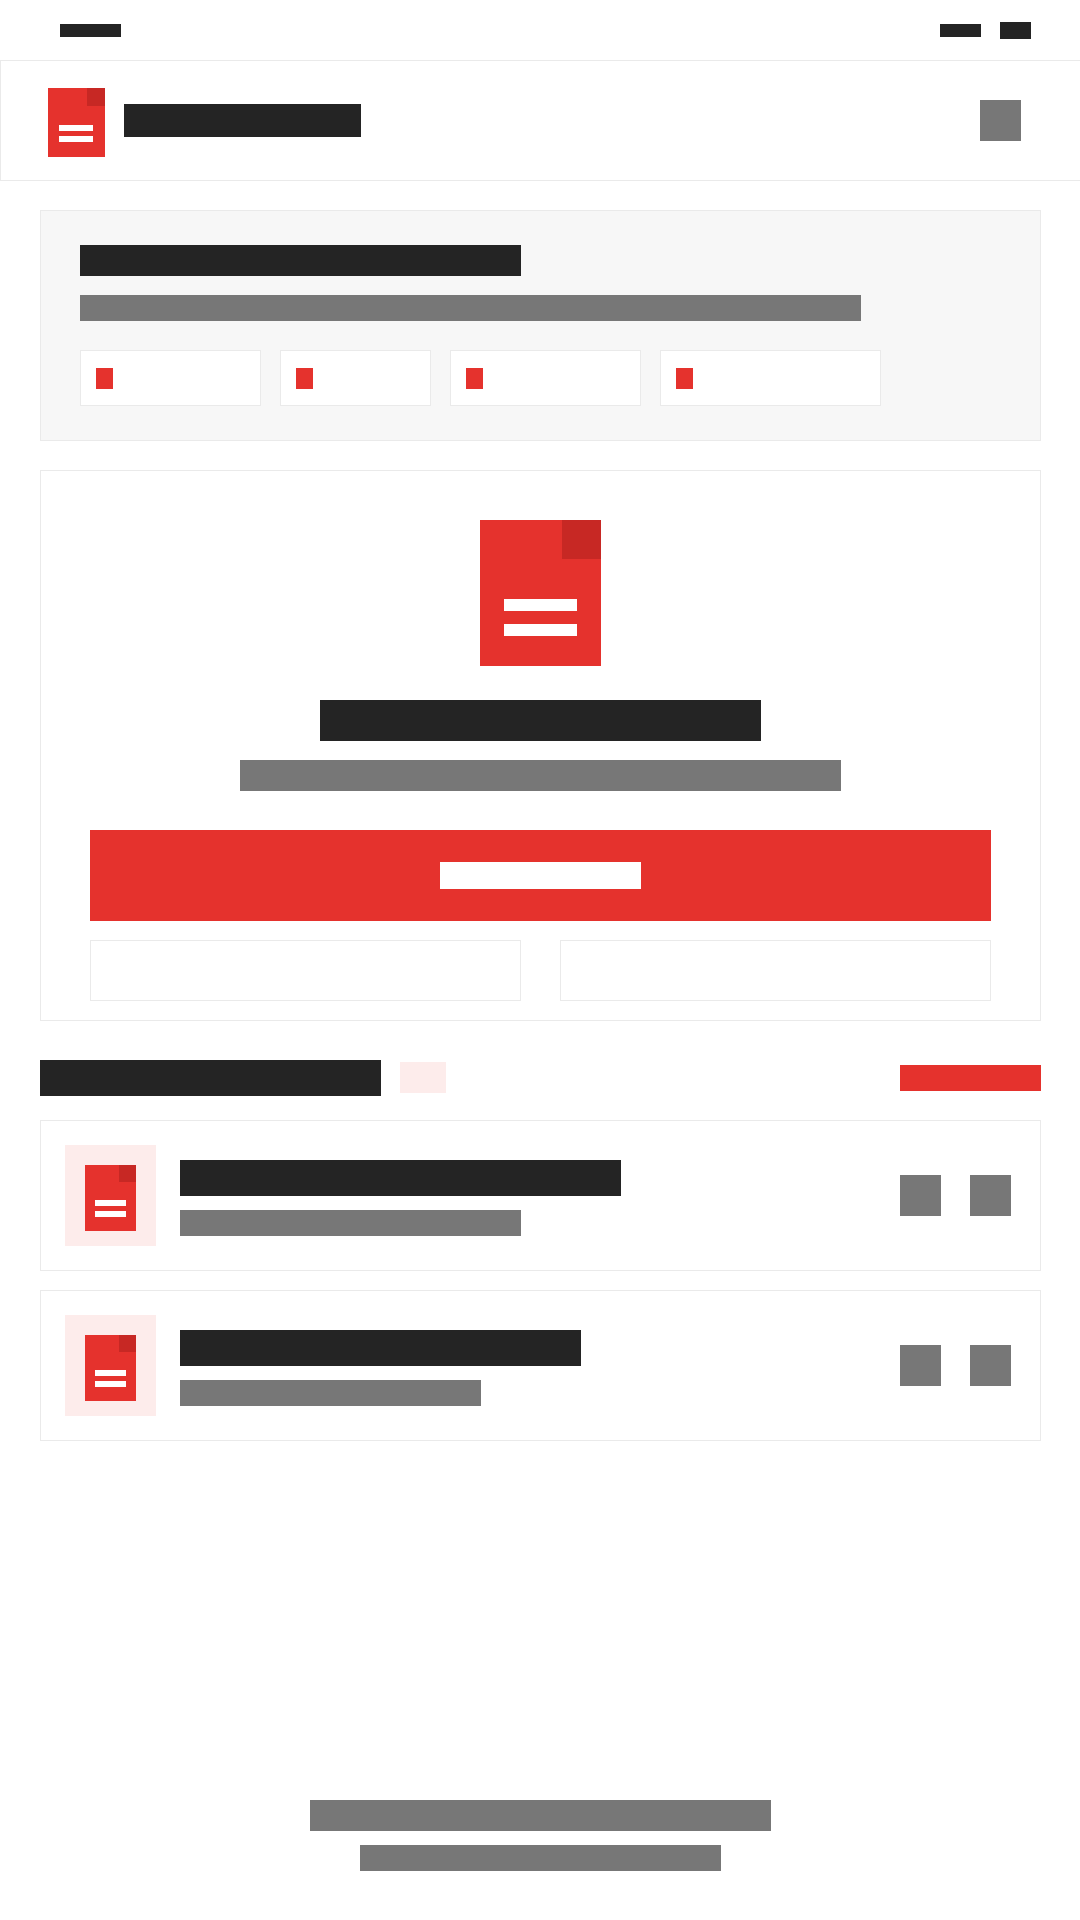
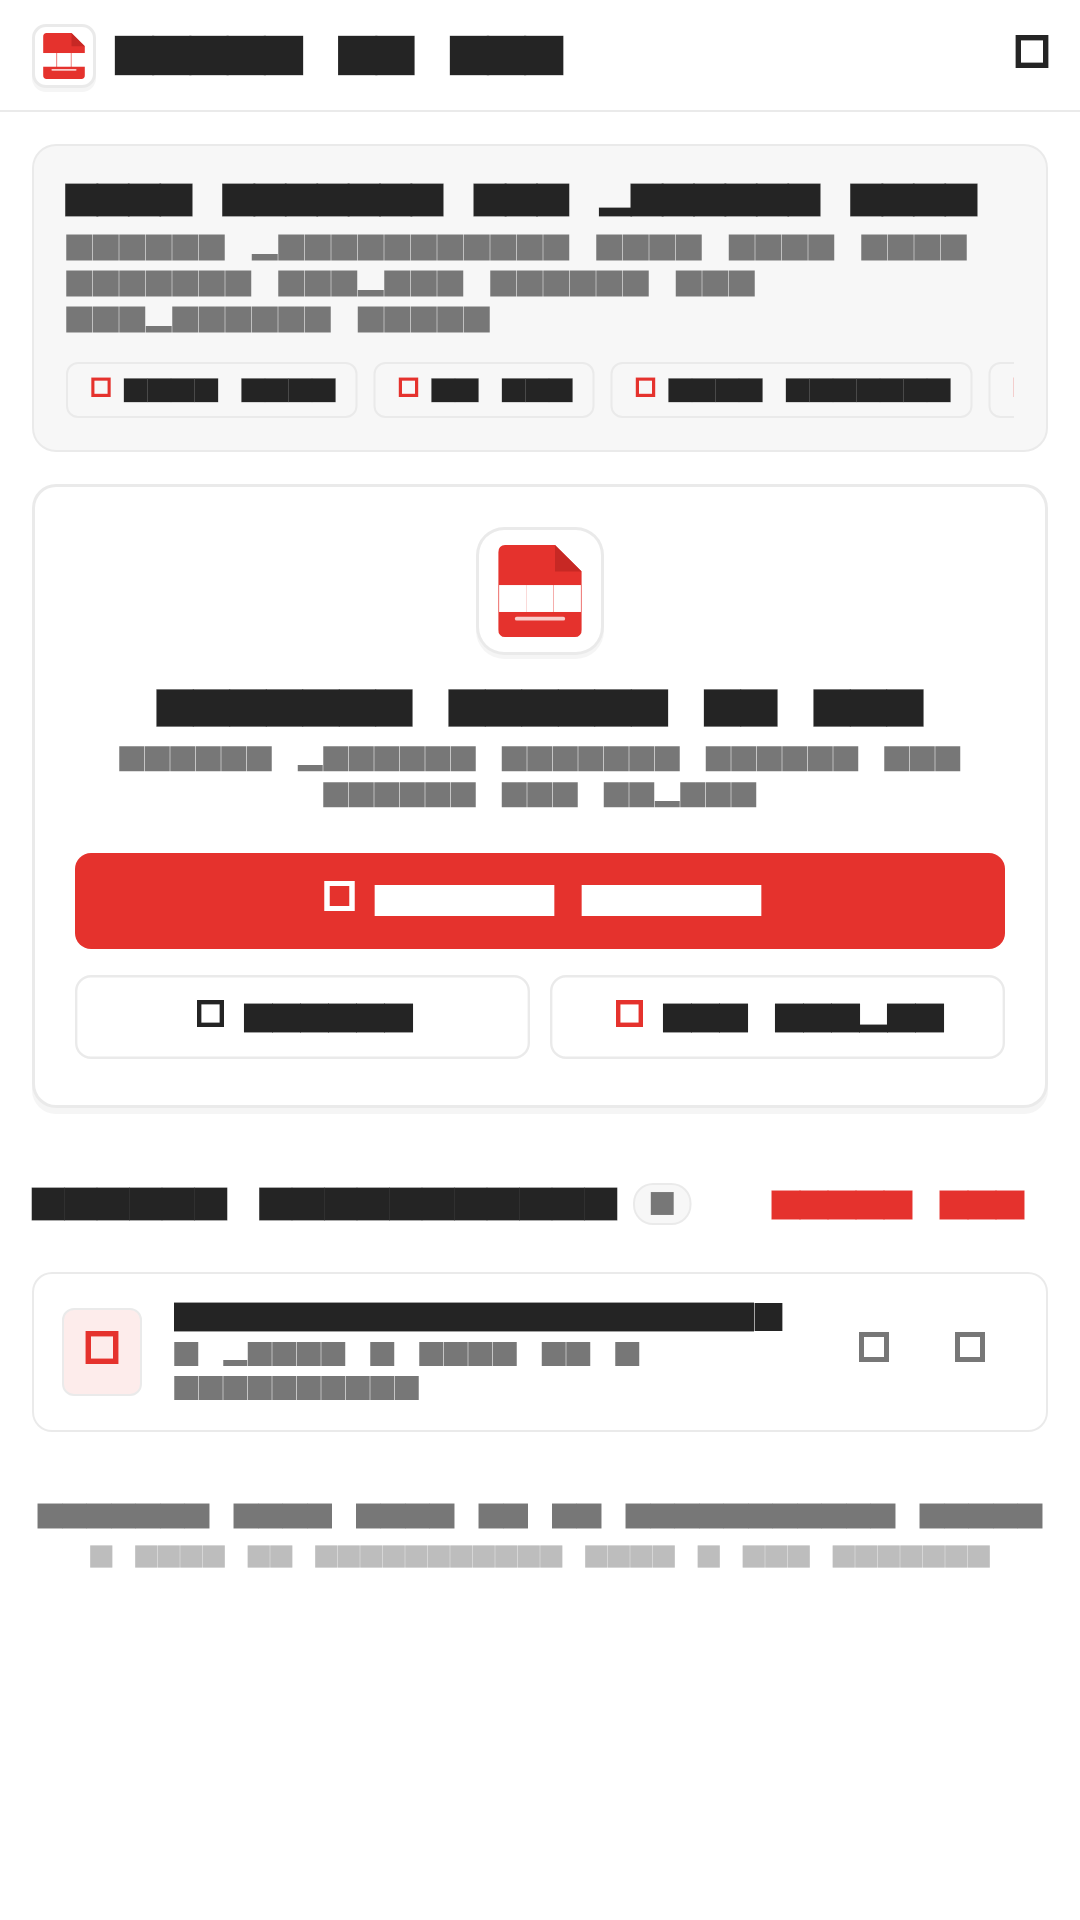
feat: render and save 100% genuine Flutter in-app UI screenshots

diff --git a/test/screenshot3_test.dart b/test/screenshot3_test.dart
@@ -1,0 +1,74 @@
+import 'dart:io';
+import 'dart:ui' as ui;
+import 'package:flutter/material.dart';
+import 'package:flutter/rendering.dart';
+import 'package:flutter_test/flutter_test.dart';
+import 'package:image/image.dart' as img;
+import 'package:shared_preferences/shared_preferences.dart';
+import 'package:img_to_pdf_app/constants/app_theme.dart';
+import 'package:img_to_pdf_app/models/saved_pdf.dart';
+import 'package:img_to_pdf_app/screens/home_screen.dart';
+
+void main() {
+  testWidgets('Capture Screen 3 Multiple Documents', (tester) async {
+    final p1 = SavedPdf(
+      id: '1',
+      title: 'Business_Contract_Final.pdf',
+      filePath: '/storage/Business_Contract_Final.pdf',
+      pageCount: 5,
+      fileSizeBytes: 2450000,
+      createdAt: DateTime.now(),
+    );
+    final p2 = SavedPdf(
+      id: '2',
+      title: 'Office_Receipts_Nov.pdf',
+      filePath: '/storage/Office_Receipts_Nov.pdf',
+      pageCount: 2,
+      fileSizeBytes: 890000,
+      createdAt: DateTime.now().subtract(const Duration(hours: 4)),
+    );
+    final p3 = SavedPdf(
+      id: '3',
+      title: 'Identification_Card_Scan.pdf',
+      filePath: '/storage/Identification_Card_Scan.pdf',
+      pageCount: 1,
+      fileSizeBytes: 420000,
+      createdAt: DateTime.now().subtract(const Duration(days: 1)),
+    );
+    SharedPreferences.setMockInitialValues({
+      'saved_pdf_history_v1': [p1.toJson(), p2.toJson(), p3.toJson()],
+    });
+
+    tester.view.physicalSize = const Size(1080, 1920);
+    tester.view.devicePixelRatio = 2.0;
+
+    final key = GlobalKey();
+    await tester.pumpWidget(
+      MaterialApp(
+        debugShowCheckedModeBanner: false,
+        theme: AppTheme.lightTheme,
+        home: Scaffold(
+          body: RepaintBoundary(
+            key: key,
+            child: const SizedBox(
+              width: 540,
+              height: 960,
+              child: HomeScreen(),
+            ),
+          ),
+        ),
+      ),
+    );
+    await tester.pump(const Duration(milliseconds: 400));
+
+    final boundary = key.currentContext!.findRenderObject() as RenderRepaintBoundary;
+    final ui.Image image = await boundary.toImage(pixelRatio: 2.0);
+    final byteData = await image.toByteData(format: ui.ImageByteFormat.png);
+    final pngBytes = byteData!.buffer.asUint8List();
+
+    final decoded = img.decodeImage(pngBytes)!;
+    final resized = img.copyResize(decoded, width: 1080, height: 1920);
+    File('play_store_release/graphics/screenshot_3.png').writeAsBytesSync(img.encodePng(resized));
+    print('SUCCESS: screenshot_3.png generated from real Flutter widgets!');
+  });
+}

diff --git a/test/screenshot1_test.dart b/test/screenshot1_test.dart
@@ -1,0 +1,58 @@
+import 'dart:io';
+import 'dart:ui' as ui;
+import 'package:flutter/material.dart';
+import 'package:flutter/rendering.dart';
+import 'package:flutter_test/flutter_test.dart';
+import 'package:image/image.dart' as img;
+import 'package:shared_preferences/shared_preferences.dart';
+import 'package:img_to_pdf_app/constants/app_theme.dart';
+import 'package:img_to_pdf_app/models/saved_pdf.dart';
+import 'package:img_to_pdf_app/screens/home_screen.dart';
+
+void main() {
+  testWidgets('Capture Screen 1 Home', (tester) async {
+    final samplePdf = SavedPdf(
+      id: '1',
+      title: 'Invoice_November_2026.pdf',
+      filePath: '/storage/Invoice_November_2026.pdf',
+      pageCount: 3,
+      fileSizeBytes: 1420000,
+      createdAt: DateTime.now(),
+    );
+    SharedPreferences.setMockInitialValues({
+      'saved_pdf_history_v1': [samplePdf.toJson()],
+    });
+
+    tester.view.physicalSize = const Size(1080, 1920);
+    tester.view.devicePixelRatio = 2.0;
+
+    final key = GlobalKey();
+    await tester.pumpWidget(
+      MaterialApp(
+        debugShowCheckedModeBanner: false,
+        theme: AppTheme.lightTheme,
+        home: Scaffold(
+          body: RepaintBoundary(
+            key: key,
+            child: const SizedBox(
+              width: 540,
+              height: 960,
+              child: HomeScreen(),
+            ),
+          ),
+        ),
+      ),
+    );
+    await tester.pump(const Duration(milliseconds: 400));
+
+    final boundary = key.currentContext!.findRenderObject() as RenderRepaintBoundary;
+    final ui.Image image = await boundary.toImage(pixelRatio: 2.0);
+    final byteData = await image.toByteData(format: ui.ImageByteFormat.png);
+    final pngBytes = byteData!.buffer.asUint8List();
+
+    final decoded = img.decodeImage(pngBytes)!;
+    final resized = img.copyResize(decoded, width: 1080, height: 1920);
+    File('play_store_release/graphics/screenshot_1.png').writeAsBytesSync(img.encodePng(resized));
+    print('SUCCESS: screenshot_1.png generated from real Flutter widgets!');
+  });
+}

diff --git a/test/screenshot4_test.dart b/test/screenshot4_test.dart
@@ -1,0 +1,49 @@
+import 'dart:io';
+import 'dart:ui' as ui;
+import 'package:flutter/material.dart';
+import 'package:flutter/rendering.dart';
+import 'package:flutter_test/flutter_test.dart';
+import 'package:image/image.dart' as img;
+import 'package:shared_preferences/shared_preferences.dart';
+import 'package:img_to_pdf_app/constants/app_theme.dart';
+import 'package:img_to_pdf_app/screens/home_screen.dart';
+
+void main() {
+  testWidgets('Capture Screen 4 Clean Dashboard', (tester) async {
+    SharedPreferences.setMockInitialValues({
+      'saved_pdf_history_v1': <String>[],
+    });
+
+    tester.view.physicalSize = const Size(1080, 1920);
+    tester.view.devicePixelRatio = 2.0;
+
+    final key = GlobalKey();
+    await tester.pumpWidget(
+      MaterialApp(
+        debugShowCheckedModeBanner: false,
+        theme: AppTheme.lightTheme,
+        home: Scaffold(
+          body: RepaintBoundary(
+            key: key,
+            child: const SizedBox(
+              width: 540,
+              height: 960,
+              child: HomeScreen(),
+            ),
+          ),
+        ),
+      ),
+    );
+    await tester.pump(const Duration(milliseconds: 400));
+
+    final boundary = key.currentContext!.findRenderObject() as RenderRepaintBoundary;
+    final ui.Image image = await boundary.toImage(pixelRatio: 2.0);
+    final byteData = await image.toByteData(format: ui.ImageByteFormat.png);
+    final pngBytes = byteData!.buffer.asUint8List();
+
+    final decoded = img.decodeImage(pngBytes)!;
+    final resized = img.copyResize(decoded, width: 1080, height: 1920);
+    File('play_store_release/graphics/screenshot_4.png').writeAsBytesSync(img.encodePng(resized));
+    print('SUCCESS: screenshot_4.png generated from real Flutter widgets!');
+  });
+}

diff --git a/test/screenshot2_test.dart b/test/screenshot2_test.dart
@@ -1,0 +1,44 @@
+import 'dart:io';
+import 'dart:ui' as ui;
+import 'package:flutter/material.dart';
+import 'package:flutter/rendering.dart';
+import 'package:flutter_test/flutter_test.dart';
+import 'package:image/image.dart' as img;
+import 'package:img_to_pdf_app/constants/app_theme.dart';
+import 'package:img_to_pdf_app/screens/about_screen.dart';
+
+void main() {
+  testWidgets('Capture Screen 2 About', (tester) async {
+    tester.view.physicalSize = const Size(1080, 1920);
+    tester.view.devicePixelRatio = 2.0;
+
+    final key = GlobalKey();
+    await tester.pumpWidget(
+      MaterialApp(
+        debugShowCheckedModeBanner: false,
+        theme: AppTheme.lightTheme,
+        home: Scaffold(
+          body: RepaintBoundary(
+            key: key,
+            child: const SizedBox(
+              width: 540,
+              height: 960,
+              child: AboutScreen(),
+            ),
+          ),
+        ),
+      ),
+    );
+    await tester.pump(const Duration(milliseconds: 400));
+
+    final boundary = key.currentContext!.findRenderObject() as RenderRepaintBoundary;
+    final ui.Image image = await boundary.toImage(pixelRatio: 2.0);
+    final byteData = await image.toByteData(format: ui.ImageByteFormat.png);
+    final pngBytes = byteData!.buffer.asUint8List();
+
+    final decoded = img.decodeImage(pngBytes)!;
+    final resized = img.copyResize(decoded, width: 1080, height: 1920);
+    File('play_store_release/graphics/screenshot_2.png').writeAsBytesSync(img.encodePng(resized));
+    print('SUCCESS: screenshot_2.png generated from real Flutter widgets!');
+  });
+}
